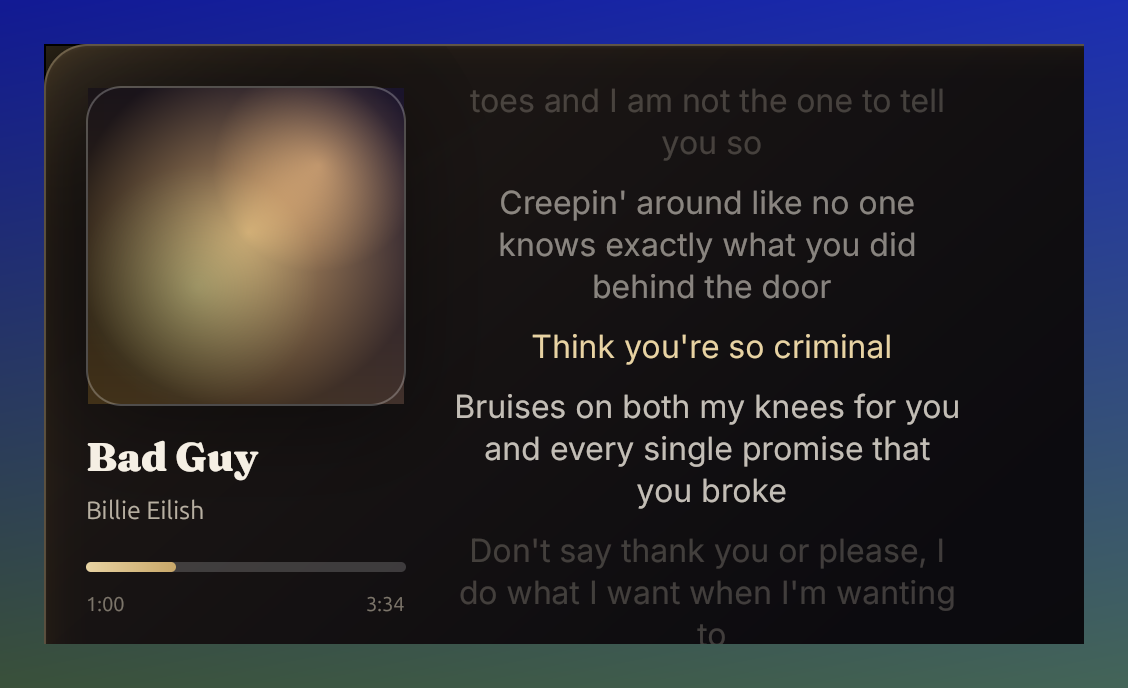
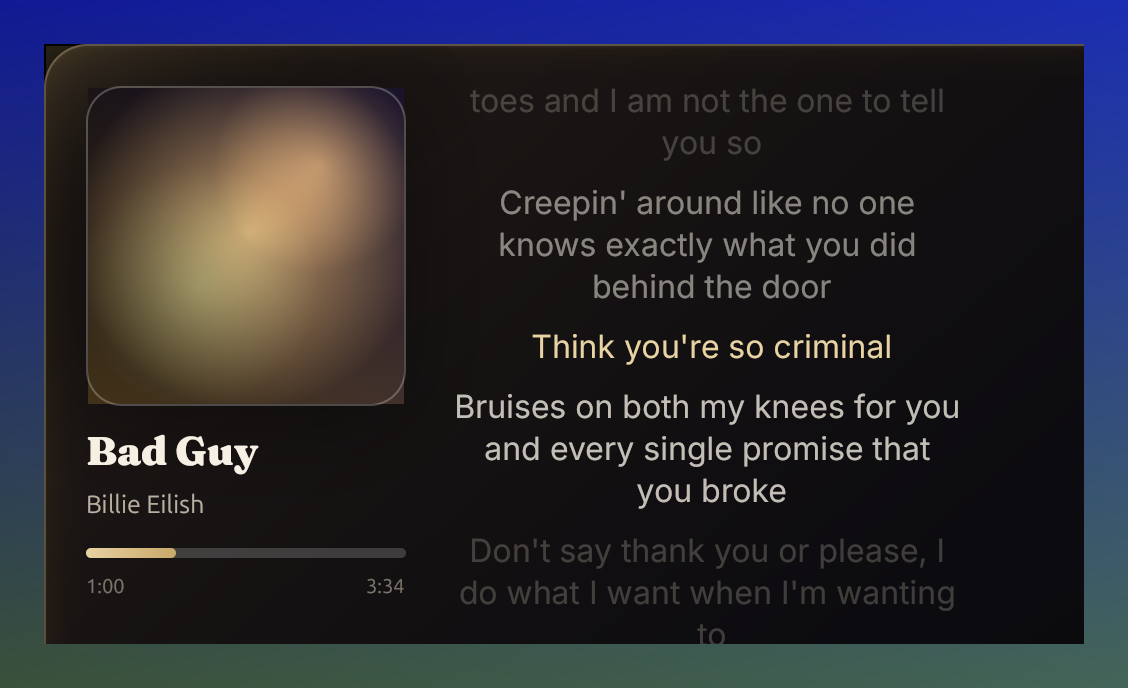
fix(overlay): stop the progress bar from being squeezed out of the layout
The bar was invisible while the timestamps still showed. It was not missing from
the code: the zero-progress capture proves the track draws. It was being squeezed
away — the window had no minimum size, so a narrowed or shortened overlay made the
left column overflow, and flex shrank its smallest child (the 5 px bar) to zero
height while the taller rows survived.

- Every left-column child is now `flex_none`, so nothing in it can be shrunk.
- The track also carries `min_h`, belt and braces.
- The overlay window pins `window_min_size` to the 520x300 its layout needs, so it
  cannot be dragged below the design minimum in the first place.
- The vertical rhythm is slightly tighter (art->title 10, ->progress 12, ->times 6)
  so the column has real slack at the minimum instead of being one pixel away from
  overflowing.

New capture `overlay-zero.png` records position 0 on a 5:06 track: the grey track
is visible with an empty gold fill, which is the case that would have hidden a
purely data-driven bug.

152 tests pass, clippy clean.

Changed region(s): [[0.0621, 0.7936, 0.3723, 0.8852], [0.0621, 0.6105, 0.2482, 0.7631]]

diff --git a/src/overlay/mod.rs b/src/overlay/mod.rs
@@ -567,7 +567,8 @@ impl Render for PinnedLyricsView {
             .child(art)
             .child(
                 div()
-                    .mt(gpui::px(13.0))
+                    .flex_none()
+                    .mt(gpui::px(10.0))
                     .font_family(theme.display_font)
                     .text_size(gpui::px(20.0))
                     .line_height(gpui::px(25.0))
@@ -577,6 +578,7 @@ impl Render for PinnedLyricsView {
             )
             .child(
                 div()
+                    .flex_none()
                     .mt(gpui::px(4.0))
                     .flex()
                     .items_center()
@@ -605,9 +607,11 @@ impl Render for PinnedLyricsView {
             .child(
                 // Real progress, not decoration.
                 div()
-                    .mt(gpui::px(16.0))
+                    .flex_none()
+                    .mt(gpui::px(12.0))
                     .w(gpui::px(LEFT_COLUMN))
                     .h(gpui::px(5.0))
+                    .min_h(gpui::px(5.0))
                     .rounded(gpui::px(999.0))
                     .bg(gpui::rgba(0xFFFFFF2E))
                     .overflow_hidden()
@@ -625,7 +629,8 @@ impl Render for PinnedLyricsView {
             )
             .child(
                 div()
-                    .mt(gpui::px(8.0))
+                    .flex_none()
+                    .mt(gpui::px(6.0))
                     .w(gpui::px(LEFT_COLUMN))
                     .flex()
                     .items_center()
@@ -925,6 +930,12 @@ pub fn open_overlay(
 ) -> gpui::WindowHandle<PinnedLyricsView> {
     let opts = WindowOptions {
         window_bounds: Some(gpui::WindowBounds::Windowed(bounds)),
+        // The layout needs this much room; without a floor the window could be
+        // dragged smaller and flex would squeeze the progress bar to nothing.
+        window_min_size: Some(gpui::size(
+            gpui::px(MIN_WIDTH as f32),
+            gpui::px(MIN_HEIGHT as f32),
+        )),
         window_background: WindowBackgroundAppearance::Blurred,
         window_decorations: None,
         focus: false,

diff --git a/tests/screenshot_overlay.rs b/tests/screenshot_overlay.rs
@@ -245,6 +245,30 @@ fn capture_overlay_states() {
         }
     }
 
+    // ---- 1c. position at zero: the track must still be drawn ----
+    {
+        let st = state.clone();
+        let cover = cover.clone();
+        cx.update(move |app| {
+            st.update(app, |s, _| {
+                s.begin("Tarot".to_string(), ".Feast".to_string());
+                s.set_status(&LyricsStatus::Synced(synced_lines()));
+                s.set_cover(Some(cover.clone()));
+                s.sync_position(Duration::ZERO, 0, Some(Duration::from_secs(306)));
+            });
+        });
+        cx.update(|app| app.refresh_windows());
+        let any = cx.update(|app| {
+            app.windows()
+                .iter()
+                .find(|w| w.downcast::<myuzik::overlay::PinnedLyricsView>().is_some())
+                .copied()
+        });
+        if let Some(any) = any {
+            capture("overlay-zero", &mut cx, any, false);
+        }
+    }
+
     // ---- 2. unsynced transcript ----
     {
         let st = state.clone();
